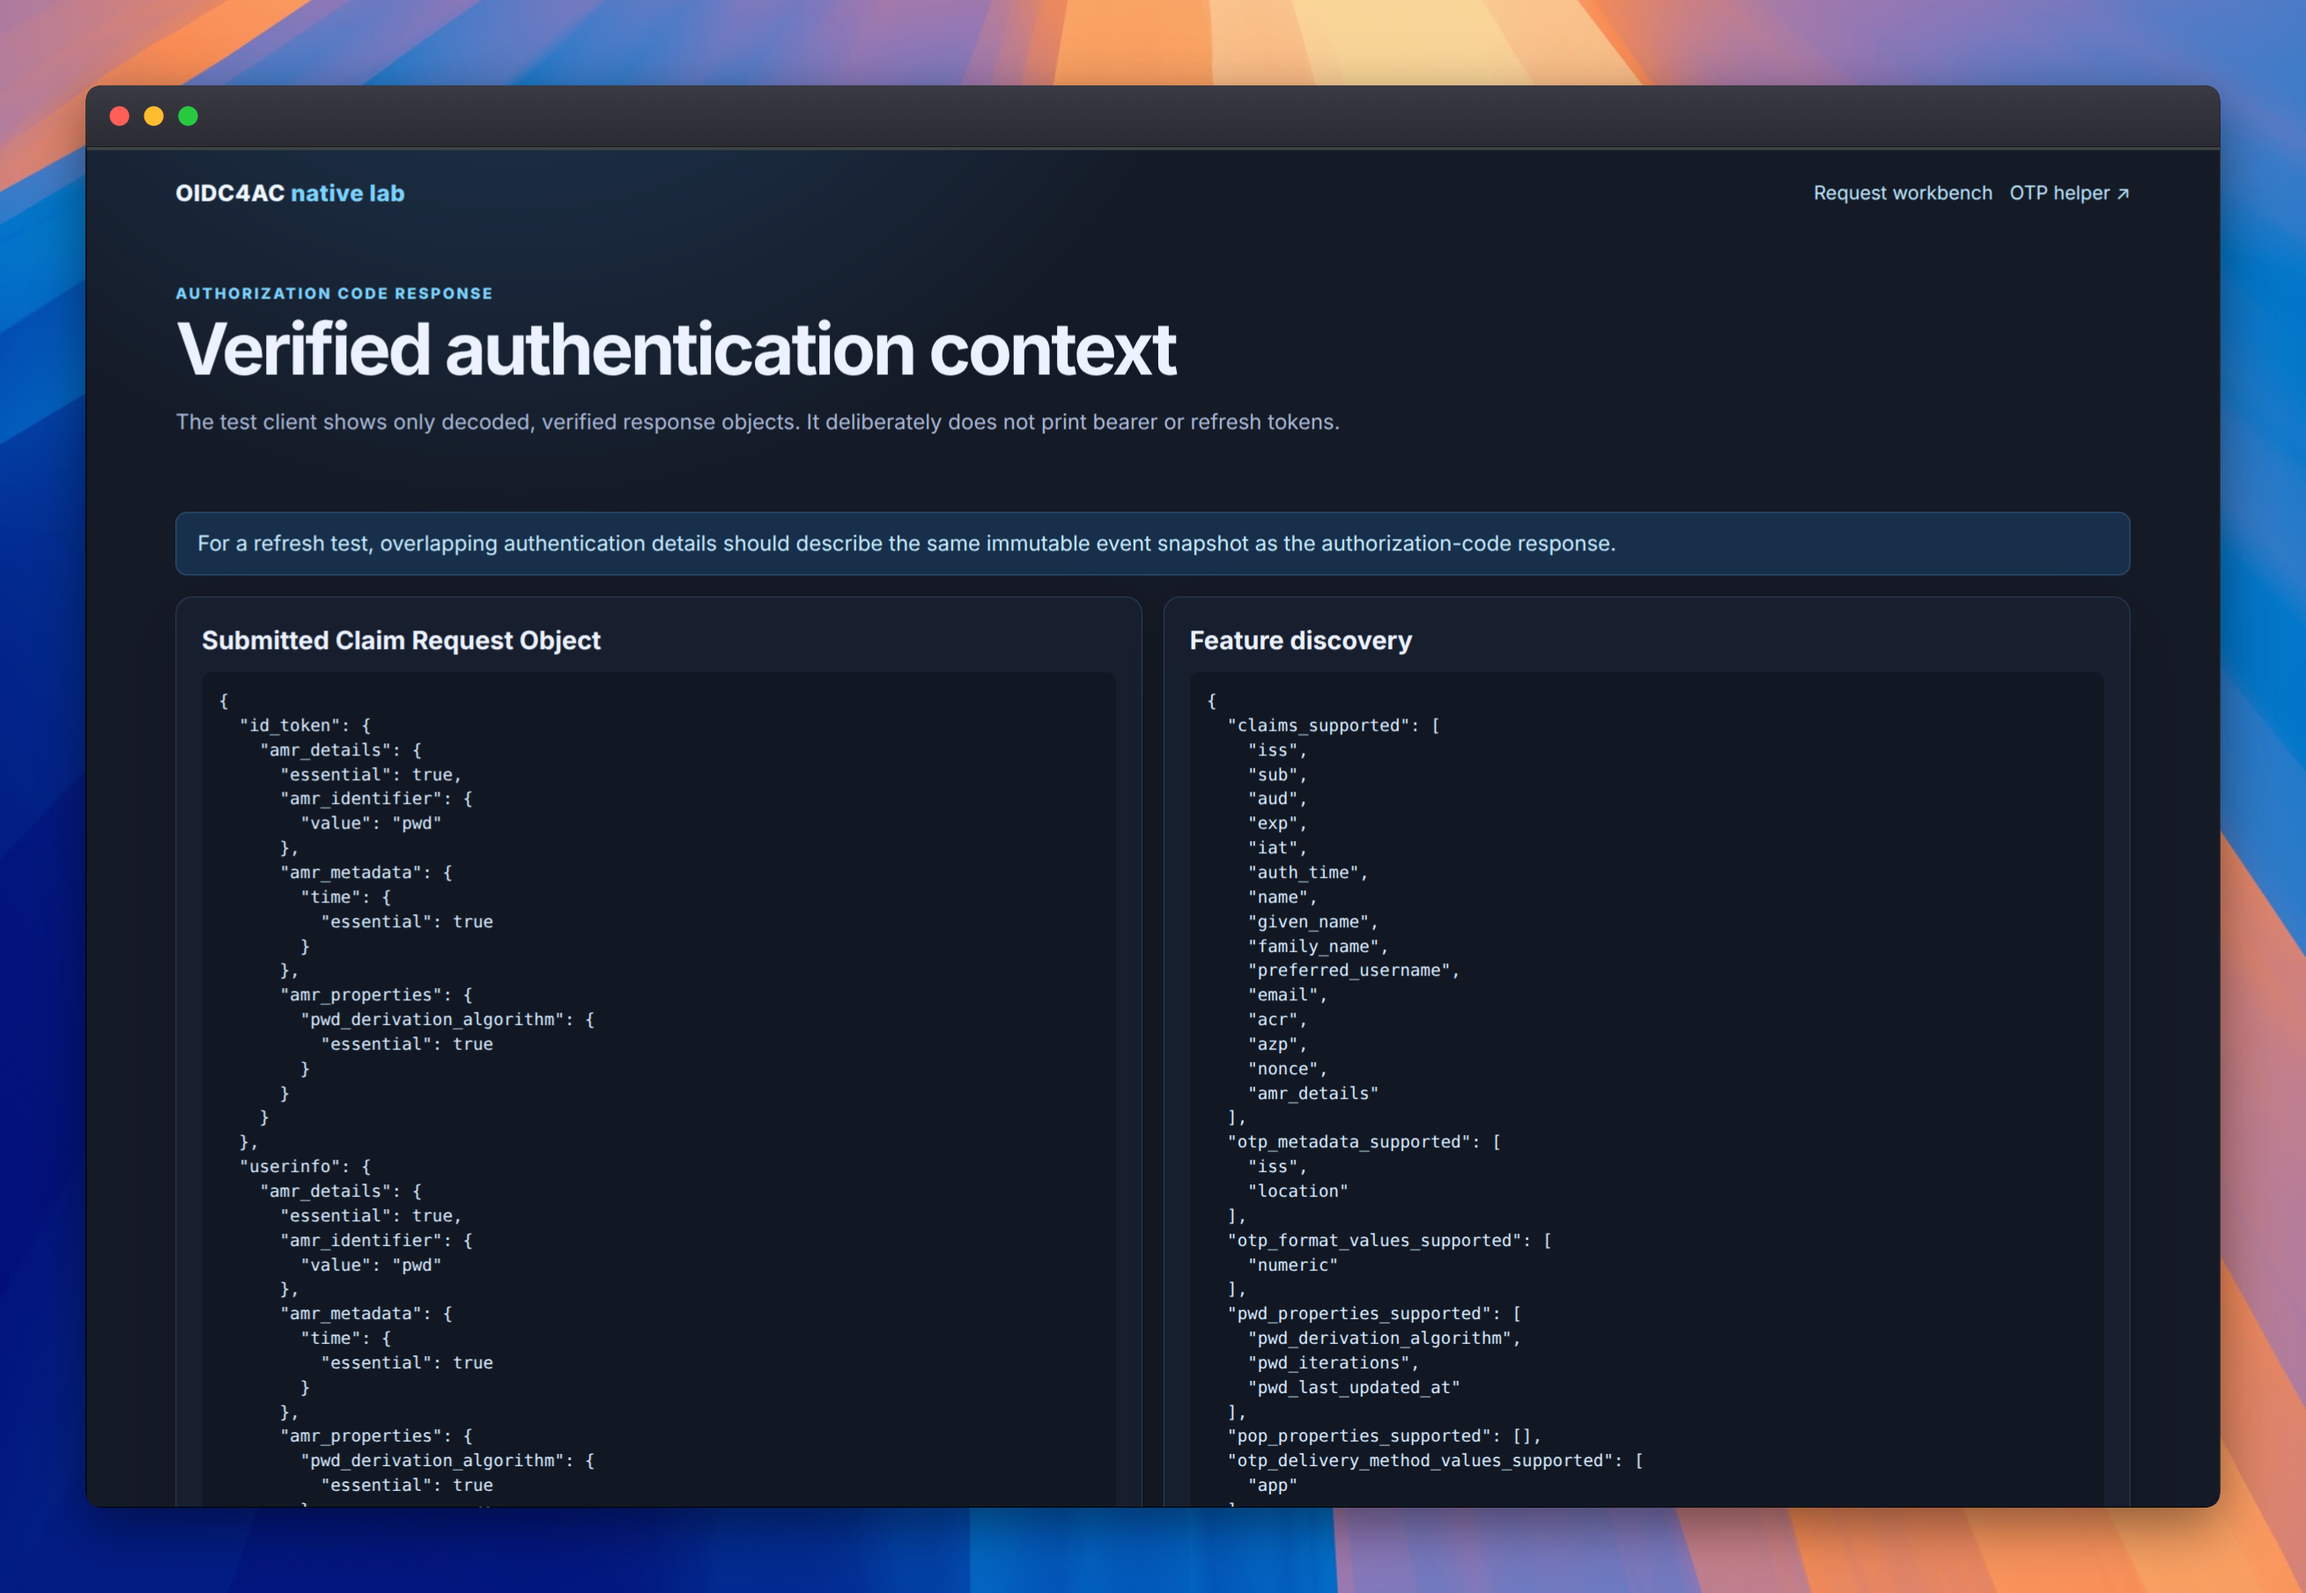
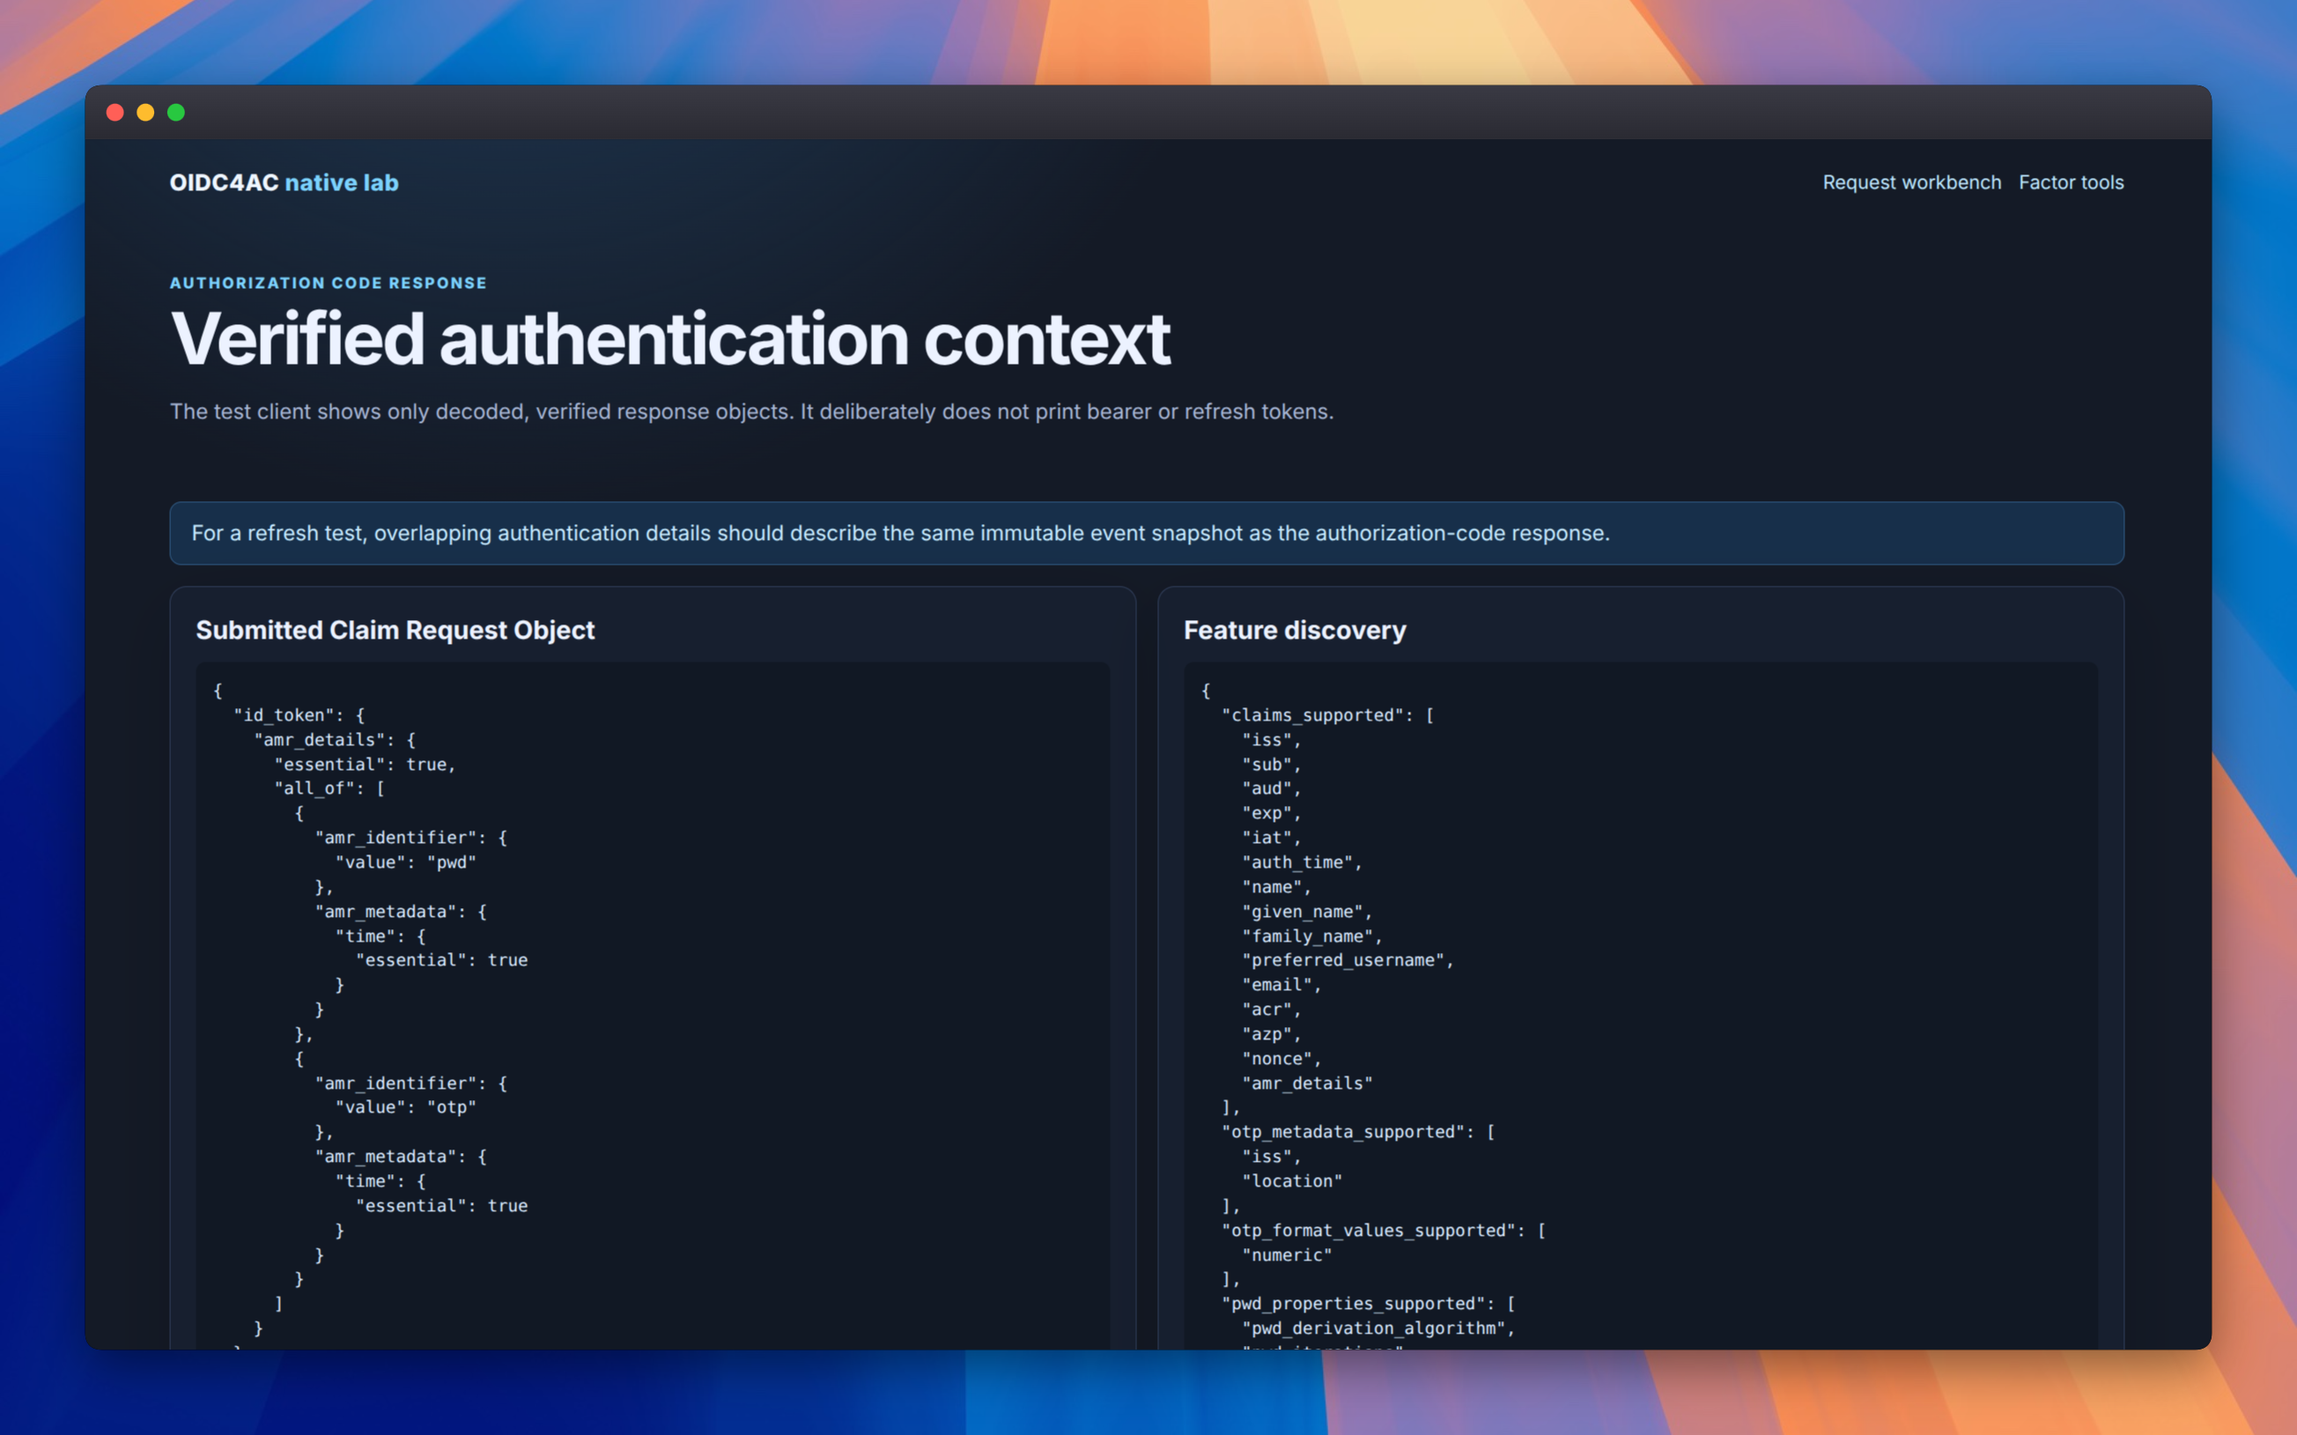
Updating images

diff --git a/docs/test-client.md b/docs/test-client.md
@@ -29,7 +29,9 @@ The result should show the `pwd` method and when it was executed. This is the
 simplest way to see that OIDC4AC describes the authentication that occurred,
 rather than only token issuance.
 
-<!-- Screenshot placeholder: add docs/images/test-client-result.png. -->
+<!-- Screenshot placeholder: replace docs/images/test-client-result.png with a
+     current result-page capture showing the verified authentication context and
+     the Factor tools navigation. -->
 ![Test client authorization result with authentication context](images/test-client-result.png)
 
 ## Use the factor tools
@@ -37,16 +39,36 @@ rather than only token issuance.
 The **Factor tools** link in the header groups the disposable helpers used by
 the examples:
 
+<!-- Screenshot placeholder: add docs/images/test-client-tools.png. Capture the
+     Factor tools page with its OTP, email inbox, and WebAuthn cards visible. -->
+![Test client Factor tools page](images/test-client-tools.png)
+
 - **OTP helper** shows Alice's current six-digit code and has a copy button. It
   updates the code through JavaScript only when the 30-second period changes,
   without reloading the page, so selecting or copying it is not interrupted.
+
+<!-- Screenshot placeholder: add docs/images/test-client-otp.png. Capture the
+     OTP code, countdown, Copy code button, and Back to factor tools link. -->
+![Test client OTP helper](images/test-client-otp.png)
+
 - **Email inbox** opens the smtp4dev viewer. The public hosted inbox is
   intentionally public and contains only disposable messages.
+
+<!-- Screenshot placeholder: add docs/images/test-client-email-inbox.png. Capture
+     a disposable verification message in smtp4dev; hide unrelated messages and
+     any non-disposable addresses. -->
+![Disposable email verification message](images/test-client-email-inbox.png)
+
 - **WebAuthn / passkey** opens Alice's Keycloak Account Console. Sign in with
   `alice / Alice-password-123`, choose **Security** (or **Signing in**) and
   register a passkey with the browser, platform authenticator, or security key.
   Return to the workbench and select a preset containing `pop`, such as the
   nested passkey preset. The browser will ask for the registered credential.
+
+<!-- Screenshot placeholder: add docs/images/test-client-webauthn.png. Capture
+     the Account Console security page where a passkey can be registered; use
+     only the disposable Alice account. -->
+![Keycloak Account Console passkey registration](images/test-client-webauthn.png)
 
 The hosted service uses HTTPS, which is required by WebAuthn. Chrome, Edge,
 Firefox, and Safari can use a platform passkey, a phone, or a USB security key;

diff --git a/README.md b/README.md
@@ -245,6 +245,8 @@ For a manual functional check:
 5. Try the **Password and OTP (all_of)** preset and open the test client's
    **Factor tools** page to read/copy the current code from the OTP helper.
 
+<!-- Screenshot placeholder: replace docs/images/test-client-workbench.png with a
+     current workbench capture showing the Factor tools link in the header. -->
 ![OIDC4AC test-client workbench](docs/images/test-client-workbench.png)
 
 Stop the environment with:
